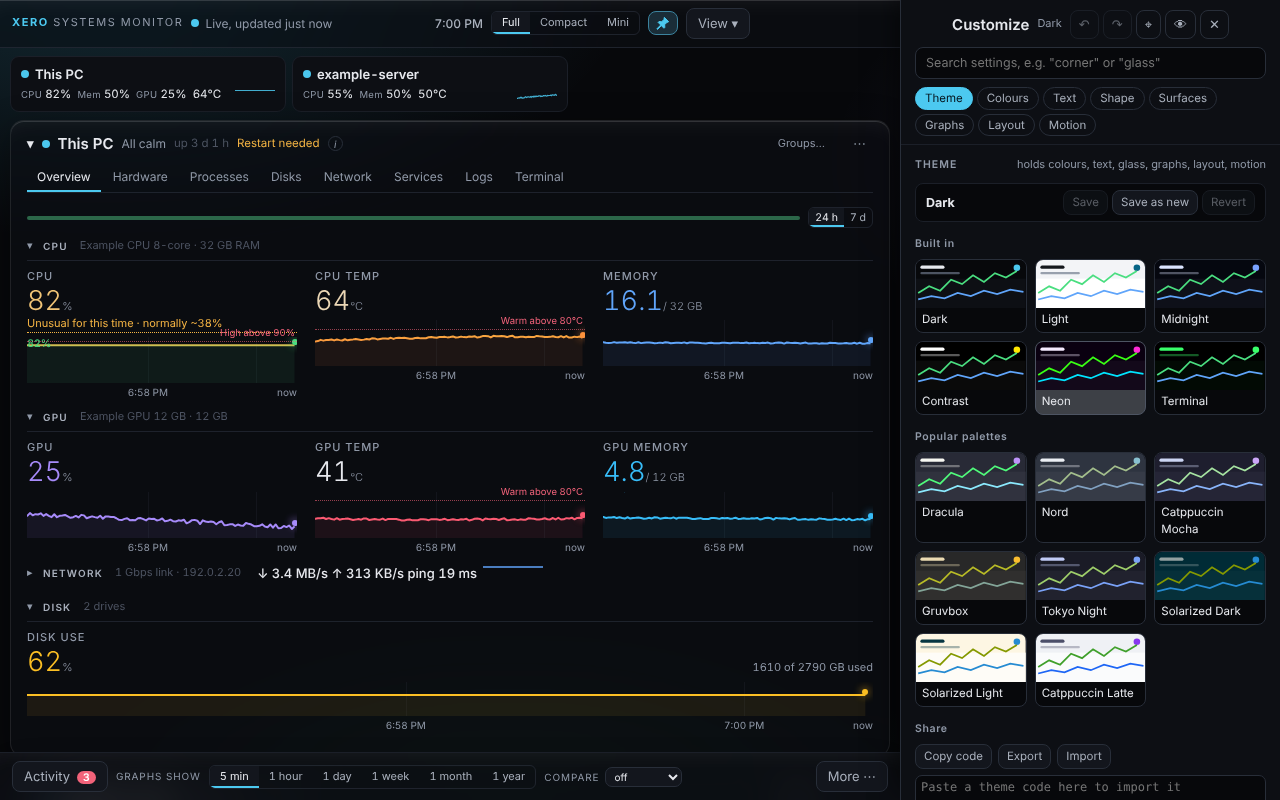
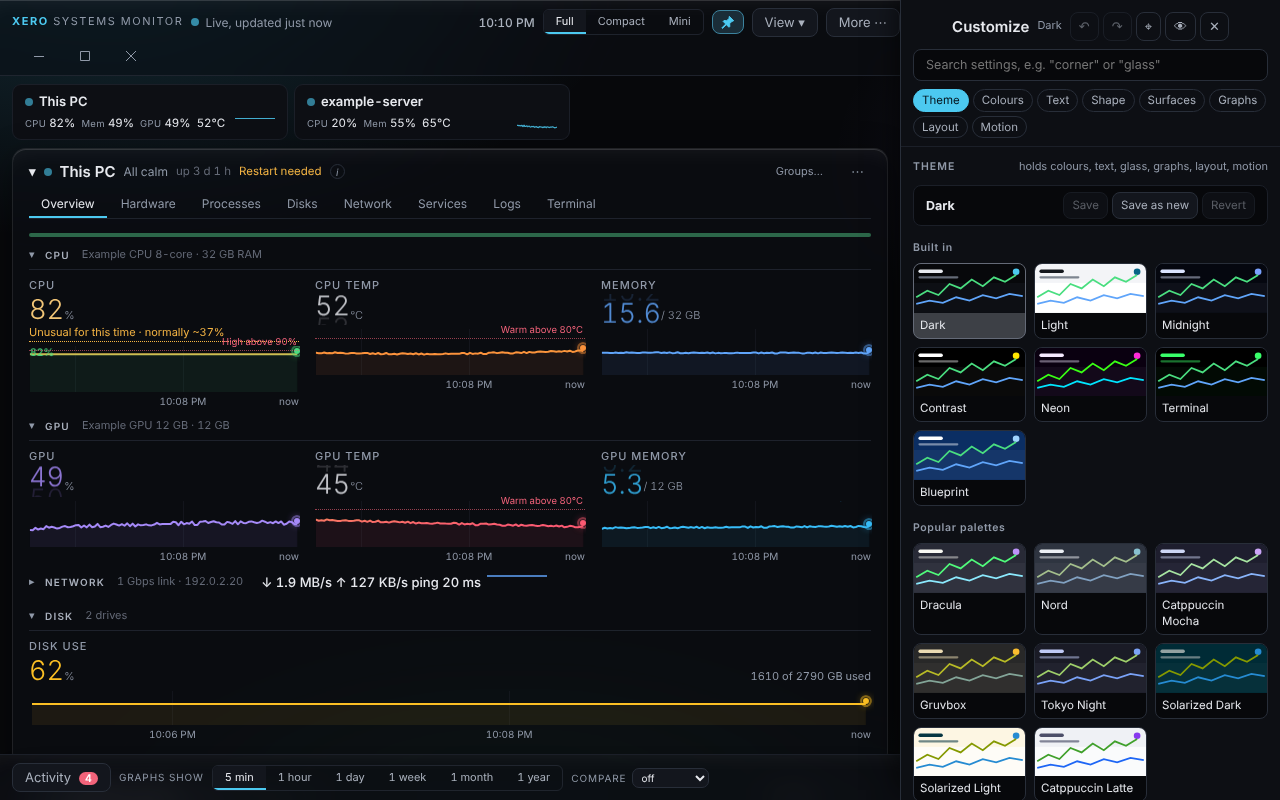
Customize panel no longer jumps: fixed-size chrome and a held edit row (#66)
* Fixed-size system chrome and a held edit row: the Customize panel no longer jumps

Claude-Session: https://claude.ai/code/session_0135roDSyKmVbufXTNSNLj3P

* Refresh the Customize screenshot

Claude-Session: https://claude.ai/code/session_0135roDSyKmVbufXTNSNLj3P

---------

diff --git a/app/src/customize/Customize.jsx b/app/src/customize/Customize.jsx
@@ -1,4 +1,4 @@
-import { useCallback, useEffect, useRef, useState } from "react";
+import { useCallback, useEffect, useLayoutEffect, useRef, useState } from "react";
 import { createPortal } from "react-dom";
 import { SECTIONS, activeSection } from "./find.js";
 import { Find } from "./controls.jsx";
@@ -14,7 +14,7 @@ import { themeTitle } from "../theme/presets.js";
 import usePick from "./usePick.js";
 const BODY = { theme: ThemeSection, colors: ColoursSection, text: TextSection, shape: ShapeSection, surfaces: SurfacesSection, graphs: GraphsSection, layout: LayoutSection, motion: MotionSection };
 const NOTES = { theme: "holds colours, text, glass, graphs, layout, motion", colors: "3 base colours", shape: "style, corners, borders, depth", surfaces: "glass, background, grain" };
-const SPY_PAD = 24, PICK_PAD = 80;
+const SPY_PAD = 24, PICK_PAD = 80, HOLD_MS = 700;   // how long after a change the edited row is held in place
 // Ctrl+Z belongs to the text box while someone types in one (search, a name, pasted code); everywhere else it undoes the last change.
 const typing = el => el.tagName === "TEXTAREA" || (el.tagName === "INPUT" && ["text", "search"].includes(el.type));
 const reduced = () => window.matchMedia?.("(prefers-reduced-motion: reduce)").matches;
@@ -32,6 +32,22 @@ export default function Customize({ c, onClose, start = "", full = true }) {
     };
     window.addEventListener("keydown", k); return () => window.removeEventListener("keydown", k);
   }, [onClose, undo, redo, picking]);
+  // Keep the row you are changing where it is. A change can reflow things (a section grows, a fold opens); the scroll position is put back so the row under the
+  // cursor does not move. `held` is the row (by its setting id), where it was, and until when it is held; every further change by the same row extends it.
+  const held = useRef(null);
+  const mark = e => {
+    const id = e.target.closest?.("[data-setting]")?.dataset.setting, row = id && body.current?.querySelector(`[data-setting="${id}"]`); if (!row) { held.current = null; return; }   // a press anywhere else (the scrollbar) is the person scrolling
+    const now = performance.now(), h = held.current;
+    held.current = h && h.id === id && now < h.until ? { ...h, until: now + HOLD_MS } : { id, top: row.getBoundingClientRect().top, until: now + HOLD_MS };
+  };
+  const release = () => { held.current = null; };   // scrolling by hand, or a jump, ends the hold
+  const keep = useCallback(() => {
+    const h = held.current, sc = body.current, row = h && sc?.querySelector(`[data-setting="${h.id}"]`);
+    if (!row || performance.now() > h.until) return;
+    const d = row.getBoundingClientRect().top - h.top; if (Math.abs(d) >= 1) sc.scrollTop += d;
+  }, []);
+  useLayoutEffect(keep);
+  useEffect(() => { const sc = body.current; if (!sc || typeof ResizeObserver === "undefined") return; const ro = new ResizeObserver(keep); sc.querySelectorAll(".csec").forEach(el => ro.observe(el)); return () => ro.disconnect(); }, [keep]);
   const spy = useCallback(() => {
     cancelAnimationFrame(raf.current);
     raf.current = requestAnimationFrame(() => {
@@ -43,14 +59,14 @@ export default function Customize({ c, onClose, start = "", full = true }) {
   // A click in pick mode: scroll the panel to that setting and flash it.
   const toSetting = useCallback(id => {
     const el = body.current?.querySelector(`[data-setting="${id}"]`); if (!el) return;
-    setQ(""); setPicking(false);
+    setQ(""); setPicking(false); release();
     const top = el.getBoundingClientRect().top - body.current.getBoundingClientRect().top + body.current.scrollTop - PICK_PAD;
     body.current.scrollTo({ top, behavior: reduced() ? "auto" : "smooth" });
     el.classList.remove("flash"); void el.offsetWidth; el.classList.add("flash");
   }, []);
   useEffect(() => { if (start && start !== "theme") requestAnimationFrame(() => toSetting(start)); }, []);   // eslint-disable-line react-hooks/exhaustive-deps -- once: opened from a command that names a setting
   const pick = usePick(picking, toSetting);
-  const jump = id => { const el = body.current?.querySelector("#csec-" + id); if (el) body.current.scrollTo({ top: el.offsetTop - 4, behavior: reduced() ? "auto" : "smooth" }); };
+  const jump = id => { release(); const el = body.current?.querySelector("#csec-" + id); if (el) body.current.scrollTo({ top: el.offsetTop - 4, behavior: reduced() ? "auto" : "smooth" }); };
   const hold = on => ({ onPointerDown: () => setComparing(true), onPointerUp: () => setComparing(false), onPointerLeave: () => setComparing(false), onBlur: () => setComparing(false), onKeyDown: e => { if (e.key === " " || e.key === "Enter") { e.preventDefault(); setComparing(true); } }, onKeyUp: e => { if (e.key === " " || e.key === "Enter") setComparing(false); }, "aria-pressed": on });
   return createPortal(
     <>
@@ -67,7 +83,7 @@ export default function Customize({ c, onClose, start = "", full = true }) {
         <nav className="cchips" aria-label="Sections">{SECTIONS.map(([id, label]) => <button key={id} className={"chip" + (active === id ? " on" : "")} aria-current={active === id} onClick={() => jump(id)}>{label}</button>)}</nav>
       </header>
       <Find.Provider value={q}>
-        <div className={"cscroll" + (q ? " searching" : "")} ref={body} onScroll={spy}>
+        <div className={"cscroll" + (q ? " searching" : "")} ref={body} onScroll={spy} onWheel={release} onTouchMove={release} onPointerDownCapture={mark} onKeyDownCapture={mark} onInputCapture={mark} onChangeCapture={mark}>
           {SECTIONS.map(([id, label]) => { const Body = BODY[id]; return <section key={id} id={"csec-" + id} className="csec"><h4 className="csh"><span>{label}</span><em>{NOTES[id]}</em></h4><Body c={c} full={full} /></section>; })}
           <p className="cnone">Nothing matches that. Try a shorter word.</p>
         </div>

diff --git a/app/src/styles/tokens.css b/app/src/styles/tokens.css
@@ -34,6 +34,11 @@
   --dur: 180ms; --ease: cubic-bezier(.2,.7,.2,1);   /* open and close motion; keep --dur in step with MOTION_MS in src/motion.js */
   --size-machine: calc(15px * var(--scale)); --size-group: calc(10px * var(--scale)); --size-section: calc(10px * var(--scale));
   --size-number: calc(16px * var(--scale)); --size-label: calc(13px * var(--scale)); --size-small: calc(11px * var(--scale));
+}
+/* The scaled sizes: font sizes, spacing, radii and fixed sizes are the pixel value times --scale (and spacing times --dens). They are declared again on the window's own
+   chrome (the Customize panel, menus, dialogs, Ctrl+K, toasts, tooltips and the top bar), where --scale and --dens are 1: the chrome keeps one fixed size whatever the
+   look's text size and density are, so changing those never reflows the panel you are changing them in. Fonts, colours and corner shape still follow the look. */
+:root, .cpanel, .menu, .modal, .toasts, .xmtip, .top, .pickbanner, .pickbox {
   /* font sizes */
   --fs-9: calc(9px * var(--scale));
   --fs-9-5: calc(9.5px * var(--scale));
@@ -117,6 +122,7 @@
   --sz-276: calc(276px * var(--scale));
   --sz-280: calc(280px * var(--scale));
 }
+.cpanel, .menu, .modal, .toasts, .xmtip, .top, .pickbanner, .pickbox { --scale: 1; --dens: 1; }
 :root[data-theme="light"] {
   --bg:#f3f4f7; --s1:#ffffff; --s2:#eceff4; --line:#e0e4ea; --line2:#c9cfda;
   --fg:#14171c; --mid:#454d5b; --dim:#555d6b; --dim2:#7e8590;

diff --git a/app/test/chromeScale.test.js b/app/test/chromeScale.test.js
@@ -1,0 +1,11 @@
+import test from "node:test";
+import assert from "node:assert/strict";
+import { readFileSync } from "node:fs";
+// The window's own chrome keeps one fixed size: the scaled tokens are declared again where --scale and --dens are 1.
+const css = readFileSync(new URL("../src/styles/tokens.css", import.meta.url), "utf8");
+test("chrome (panel, menus, dialogs, Ctrl+K, toasts, top bar) re-declares the scaled tokens at scale 1 and density 1", () => {
+  const head = css.match(/:root, ([^{]+) \{\s*\/\* font sizes/)?.[1] || "", fixed = css.match(/\n([^\n{]+) \{ --scale: 1; --dens: 1; \}/)?.[1] || "";
+  assert.equal(head, fixed, "the same selectors get the tokens and the fixed scale");
+  for (const s of [".cpanel", ".menu", ".modal", ".toasts", ".xmtip", ".top"]) assert.ok(fixed.split(", ").includes(s), s);
+  assert.ok(css.indexOf("--sp-8") > css.indexOf(head), "spacing tokens are in the shared block");
+});

diff --git a/docs/architecture.md b/docs/architecture.md
@@ -53,6 +53,7 @@ Rules for the styles:
 
 - **No literal colour, font family or font size outside `tokens.css`.** The metric colours are `--c-cpu`, `--c-temp`, `--c-ram`, `--c-gpu`, `--c-gtemp`, `--c-vram`, `--c-down`, `--c-up`, `--c-ping`, `--c-disk`; the state colours are `--ok`, `--warn`, `--crit`, `--busy`, `--bad`. JSX passes a metric key (`metricVar("cpu")` gives `var(--c-cpu)`), never a hex value.
 - **Named text levels.** Machine name (`--font-machine`, `--size-machine`), group header (`--font-group`, `--size-group`, the small sub headers such as Drives), section header (`--font-section`, `--size-section`, CPU, Network, Disk...), big numbers, labels (graph titles) and small text each have their own family and size. Sizes that belong to no level use the numbered scales `--fs-N`, `--sp-N` (padding, margin, gap), `--r-N` (radius) and `--sz-N` (fixed sizes); each is N pixels times `--scale`.
+- **System chrome has a fixed size.** `tokens.css` declares the scaled tokens (`--fs-N`, `--sp-N`, `--r-N`, `--sz-N`) a second time on the Customize panel, menus, dialogs, Ctrl+K, toasts, tooltips and the top bar, where `--scale` and `--dens` are 1; the look's text size and density change the content, never the chrome. `Customize.jsx` also holds the edited row in place when a change reflows the panel.
 - **Text size is `--scale`**, set from the Customize text size slider (the old Large text switch became 116% of it). The old `zoom` is gone, so graph hover positions stay correct. One-pixel hairlines (borders) do not scale.
 - **Code that needs a real colour value** (shades for compared machines, canvas export) reads it through `app/src/colors.js`, which calls `getComputedStyle` once and again only when the theme, size or inline style of `<html>` changes. A card that sets its own `--c-*` values on its element is picked up with `readColors(element)`.
 - Each selector has one rule. Later "override" blocks, `!important` (kept only for `[hidden]` and the drag cursor) and the old `.inline` qualifier are gone; to change a look, edit the rule, do not add another.

diff --git a/CHANGELOG.md b/CHANGELOG.md
@@ -4,6 +4,8 @@ All notable changes are listed here. Format: [Keep a Changelog](https://keepacha
 
 ## [Unreleased]
 
+- Fixed: the Customize panel jumped around when you changed spacing or text size (for example Compact to Spacious). The panel, menus, dialogs, Ctrl+K, toasts, tooltips and the top bar were sized with the same text-size and density tokens as the cards, so every change reflowed the very panel you were using, the scroll position stayed put while the rows moved under the cursor, and the scroll-spy chips changed under you. They now use one fixed size (fonts and colours still follow your look), and the row you are editing is held in place whenever a change reflows anything else.
+
 - Changed: the 24 h and 7 d chips are gone from the Overview outage strip and the Runners table; both now follow the "Graphs show" range at the bottom, like every graph.
 - Fixed: the C key and Ctrl+K "Compact view" now work from Mini (they leave Mini for Compact). Fold all and Unfold all are offered only in the Full view, and the label comes from the cards' real state (so it is right after a restart or after folding cards one by one). The "Graphs show" chips are hidden in Compact and Mini, and Customize says "Applies in Full view" on Layout and Graphs while you are in Compact or Mini.
 - Changed: Customize is the one place for the look. The Theme row (Dark, Light, Windows) and Large text are gone from the More menu and from Ctrl+K, which now offer one "Open Customize" command. Your old theme and Large text choice move into Customize once (Light becomes the Light theme, Windows becomes Match Windows, Large becomes a 116% text size), so nobody loses their look.
